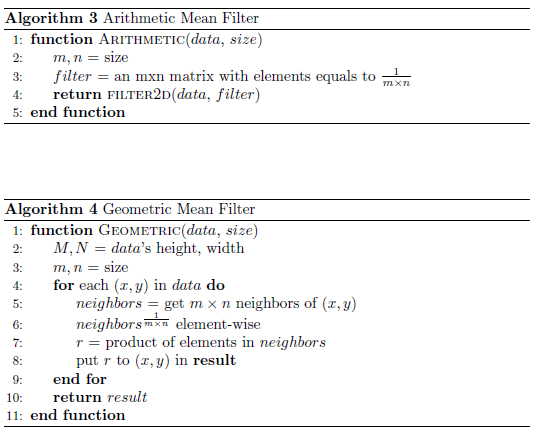
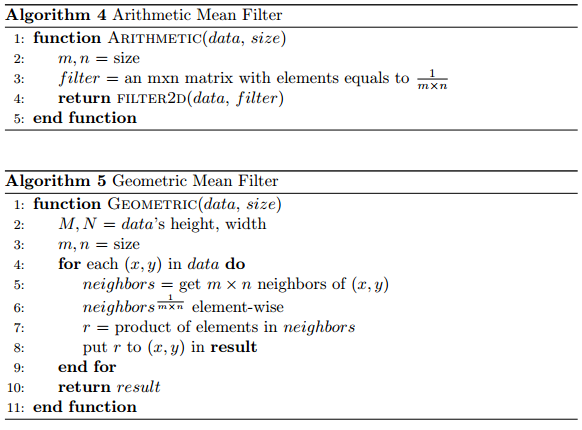
Fix Alpha Channel and rebuild

Changed region(s): [[0.0, 0.393, 1.0, 0.9977], [0.0, 0.0, 1.0, 0.3023]]

diff --git a/hw4/doc/algorithms.tex b/hw4/doc/algorithms.tex
@@ -6,6 +6,31 @@
 \algnewcommand{\LineComment}[1]{\State \(\triangleright\) #1}
 
 \begin{document}
+
+  \begin{algorithm}
+    \caption{Basic Rule in Handling RGBA Image}
+    \label{RGB}
+    \begin{algorithmic}[1]
+      \Function{RGBA}{$Function$, $data$, $args$, $mode$}
+      \LineComment apply $Function$ to $data$ with $args$
+      \If{$mode$ in $'RGBA'$} \Comment RGBA
+      \LineComment $data$ will look like $[R,G,B]$ or $[R,G,B,A]$ 
+      \\ 
+      \State $rgb$ = \Call{$Function$}{$data[:3]$, $args$, $mode$='L'} \Comment $L$ means 1-d
+        \If{\Call{Length}{mode} == 4}
+        \State $alpha$ = $data[3]$
+        \State \Return \Call{Concatenate}{$rgb$, $alpha$}
+        \Else
+        \State \Return $rgb$
+        \EndIf
+      \EndIf
+      \State \Return \Call{$Function$}{$data$, $args$} \Comment not RGBA
+      \EndFunction
+    \end{algorithmic}
+  \end{algorithm}
+
+  \newpage
+
   \begin{algorithm}
     \caption{Gauss Noise Generator}
     \label{GaussGenerator}
@@ -44,6 +69,7 @@
     \end{algorithmic}
   \end{algorithm}
 
+  \newpage
 
   \begin{algorithm}
     \caption{Arithmetic Mean Filter}
@@ -75,27 +101,6 @@
     \end{algorithmic}
   \end{algorithm}
 
-  \begin{algorithm}
-    \caption{Statistic Filter}
-    \label{Statistic}
-    \begin{algorithmic}[1]
-    \Function{Statistic}{$data$, $size$, $percent$}
-    \LineComment $percent$ = 0, min filter
-    \LineComment $percent$ = 50, median filter
-    \LineComment $percent$ = 100, max filter
-    \For{each $(x,y)$ in $data$}
-    \State $neighbors$ = get neighbors of $(x,y)$ within $size$ if exists
-    \State sort $neighbors$
-    \State $index$ = $\frac{percent}{100}\times($\Call{LENGTH}{$neighbors$}$-1)$
-    \State $i\_below, i\_above$ = \Call{Floor}{index}, \Call{Ceil}{index}
-    \State $r$ = $(neighbors[i\_below] + neighbors[i\_above]) / 2$
-    \State put $r$ to $(x,y)$ in $\mathbf{result}$
-    \EndFor
-    \State \Return $result$
-    \EndFunction
-    \end{algorithmic}
-  \end{algorithm}
-
   \newpage
 
   \begin{algorithm}
@@ -120,6 +125,27 @@
     \State $denominator$ = $data^{q}$ element-wise
     \State $filter$ = an mxn matrix with elements equals to $1$
     \State \Return $\frac{\Call{Arithmetic}{numerator}}{\Call{Arithmetic}{denominator}}$ element-wise
+    \EndFunction
+    \end{algorithmic}
+  \end{algorithm}
+
+  \begin{algorithm}
+    \caption{Statistic Filter}
+    \label{Statistic}
+    \begin{algorithmic}[1]
+    \Function{Statistic}{$data$, $size$, $percent$}
+    \LineComment $percent$ = 0, min filter
+    \LineComment $percent$ = 50, median filter
+    \LineComment $percent$ = 100, max filter
+    \For{each $(x,y)$ in $data$}
+    \State $neighbors$ = get neighbors of $(x,y)$ within $size$ if exists
+    \State sort $neighbors$
+    \State $index$ = $\frac{percent}{100}\times($\Call{LENGTH}{$neighbors$}$-1)$
+    \State $i\_below, i\_above$ = \Call{Floor}{index}, \Call{Ceil}{index}
+    \State $r$ = $(neighbors[i\_below] + neighbors[i\_above]) / 2$
+    \State put $r$ to $(x,y)$ in $\mathbf{result}$
+    \EndFor
+    \State \Return $result$
     \EndFunction
     \end{algorithmic}
   \end{algorithm}

diff --git a/hw4/src/filter2d.py b/hw4/src/filter2d.py
@@ -30,7 +30,9 @@ def filter2d(data, filter):
 
 def arithmetic_mean_filter(data, size, mode='L'):
   if mode in 'RGBA':
-    return [arithmetic_mean_filter(channel, size) for channel in data]
+    rgb = [arithmetic_mean_filter(channel, size) for channel in data[:3]]
+    alpha = data[3] if len(mode) == 4 else np.array([])
+    return np.concatenate((rgb, [alpha])) if alpha.size else rgb
 
   m, n = size
   filter = np.full(size, float(1) / (m * n))
@@ -39,7 +41,9 @@ def arithmetic_mean_filter(data, size, mode='L'):
 
 def harmonic_mean_filter(data, size, mode='L'):
   if mode in 'RGBA':
-    return [harmonic_mean_filter(channel, size) for channel in data]
+    rgb = [harmonic_mean_filter(channel, size) for channel in data[:3]]
+    alpha = data[3] if len(mode) == 4 else np.array([])
+    return np.concatenate((rgb, [alpha])) if alpha.size else rgb
 
   reciprocal = np.reciprocal(data)
   result = np.reciprocal(arithmetic_mean_filter(reciprocal, size))
@@ -48,7 +52,9 @@ def harmonic_mean_filter(data, size, mode='L'):
 
 def contra_harmonic_mean_filter(data, size, q, mode='L'):
   if mode in 'RGBA':
-    return [contra_harmonic_mean_filter(channel, size, q) for channel in data]
+    rgb = [contra_harmonic_mean_filter(channel, size, q) for channel in data[:3]]
+    alpha = data[3] if len(mode) == 4 else np.array([])
+    return np.concatenate((rgb, [alpha])) if alpha.size else rgb
 
   numerator = np.power(data, q+1)
   denominator = np.power(data, q)
@@ -59,7 +65,9 @@ def contra_harmonic_mean_filter(data, size, q, mode='L'):
 
 def geometric_mean_filter(data, size, mode='L'):
   if mode in 'RGBA':
-    return [geometric_mean_filter(channel, size) for channel in data]
+    rgb = [geometric_mean_filter(channel, size) for channel in data[:3]]
+    alpha = data[3] if len(mode) == 4 else np.array([])
+    return np.concatenate((rgb, [alpha])) if alpha.size else rgb
 
   M, N = data.shape
   m, n = size
@@ -83,7 +91,9 @@ def statistic_filter(data, size, percent, mode='L'):
     return ValueError('Wrong percent, it should between [0, 100]')
 
   if mode in 'RGBA':
-    return [statistic_filter(channel, size, percent) for channel in data]
+    rgb = [statistic_filter(channel, size, percent) for channel in data[:3]]
+    alpha = data[3] if len(mode) == 4 else np.array([])
+    return np.concatenate((rgb, [alpha])) if alpha.size else rgb
 
   M, N = data.shape
   m, n = size
@@ -100,7 +110,6 @@ def statistic_filter(data, size, percent, mode='L'):
     neighbors.sort()
     index = percent / 100.0 * (len(neighbors) - 1)
     index_below, index_above = int(np.floor(index)), int(np.ceil(index))
-
     return (neighbors[index_below] + neighbors[index_above]) / 2.0
 
   w, h = np.meshgrid(range(M), range(N), indexing='ij')

diff --git a/hw4/src/main.py b/hw4/src/main.py
@@ -69,8 +69,8 @@ def main():
     print 'Task 2:'
     task_2, mode = open_image(filename)
 
-    # 2-2-2
-    gauss = add_gaussian(task_2, 0.0, 40.0)
+    # # 2-2-2
+    gauss = add_gaussian(task_2, 0.0, 40.0, mode=mode)
     save_image(gauss, 'gauss_0_40.png', mode)
 
     gauss_amf = arithmetic_mean_filter(gauss, (3,3), mode)
@@ -83,7 +83,7 @@ def main():
     save_image(gauss_median, 'gauss_median.png', mode)
 
     # 2-2-3
-    salt = add_salt_pepper(task_2, ps=0.2)
+    salt = add_salt_pepper(task_2, ps=0.2, mode=mode)
     save_image(salt, 'salt_0.2.png', mode)
 
     salt_harmonic = harmonic_mean_filter(salt, (3,3), mode)
@@ -95,7 +95,7 @@ def main():
     salt_contra_negative = contra_harmonic_mean_filter(salt, (3,3), -1.5, mode)
     save_image(salt_contra_negative, 'salt_contra_harmonic_-1.5.png', mode)
 
-    salt_pepper = add_salt_pepper(task_2, ps=0.2, pp=0.2)
+    salt_pepper = add_salt_pepper(task_2, ps=0.2, pp=0.2, mode=mode)
     save_image(salt_pepper, 'salt_0.2_pepper_0.2.png', mode)
 
     salt_pepper_arithmetic = arithmetic_mean_filter(salt_pepper, (3,3), mode)
@@ -108,7 +108,7 @@ def main():
     for s in stats:
       r = statistic_filter(salt_pepper, (3,3), s[0], mode)
       save_image(r, 'salt_pepper_%s.png' % s[1], mode)
-  
+
   elif args.t == 3:
     print 'Task 3:'
     task_3, mode = open_image(filename)
@@ -116,7 +116,7 @@ def main():
     equalize_seperate = equalize_hist(task_3, mode=mode)
     save_image(equalize_seperate, 'equalize_seperate.png', mode)
 
-    equalize_together = equalize_hist(task_3, way='together')
+    equalize_together = equalize_hist(task_3, mode=mode, way='together')
     save_image(equalize_together, 'equalize_together.png', mode)
 
 if __name__ == '__main__':

diff --git a/hw4/src/histogram.py b/hw4/src/histogram.py
@@ -6,7 +6,9 @@ from utils import *
 
 def equalize(data, level=256, mode='L'):
   if mode in 'RGBA':
-    return [equalize(channel) for channel in data]
+    rgb = [equalize(channel) for channel in data[:3]]
+    alpha = data[3] if len(mode) == 4 else np.array([])
+    return np.concatenate((rgb, [alpha])) if alpha.size else rgb
 
   size = data.shape[0] * data.shape[1]
   # http://stackoverflow.com/questions/10741346/numpy-most-efficient-frequency-counts-for-unique-values-in-an-array
@@ -20,10 +22,14 @@ def equalize(data, level=256, mode='L'):
 
   return [round(float(i) * (level - 1)) for i in cdf]
 
-def equalize_together(data, level=256):
-  ''' RGB or RGBA
+def equalize_together(data, level=256, mode='RGB'):
   '''
-  vector = np.dstack(data)
+  Only handle 'RGB' or 'RGBA', ignore Alpha channel.
+  '''
+  if not mode in 'RGBA':
+    raise Exception('Wrong data.')
+
+  vector = np.dstack(data[:3])
   size = vector.shape[0] * vector.shape[1] * vector.shape[2]
 
   color, count = np.unique(vector, return_counts=True)
@@ -39,12 +45,15 @@ def equalize_hist(data, level=256, mode='L', way='seperate'):
     raise Exception('Wrong way to caculate histogram')
 
   if way == 'together':
-    lookup = equalize_together(data, level)
-  else:
-    lookup = equalize(data, level, mode)
+    lookup = equalize_together(data, level, mode)
+    return replace(data, lookup)
+
+  lookup = equalize(data, level, mode)
 
   if mode in 'RGBA':
-    return [replace(d, l) for (d, l) in zip(data, lookup)]
+    rgb = [replace(d, l) for (d, l) in zip(data[:3], lookup)]
+    alpha = data[3] if len(mode) == 4 else np.array([])
+    return np.concatenate((rgb, [alpha])) if alpha.size else rgb
 
   return replace(data, lookup)
 

diff --git a/hw4/src/noise.py b/hw4/src/noise.py
@@ -77,20 +77,32 @@ class SaltPepperGenerator(object):
     return self.sp(origin)
           
 
-def add_gaussian(data, mu, sigma):
+def add_gaussian(data, mu, sigma, mode='L'):
   generator = GaussianGenerator(mu, sigma)
 
   def add_noise(p):
     return p + generator.generator()
 
   vfunc = np.vectorize(add_noise)
+
+  if mode in 'RGBA':
+    rgb = vfunc(data[:3])
+    alpha = data[3] if len('RGBA') == 4 else np.array([])
+    return np.concatenate((rgb, [alpha])) if alpha.size else rgb
+
   return vfunc(data)
 
-def add_salt_pepper(data, level=256, ps=0.0, pp=0.0):
+def add_salt_pepper(data, level=256, ps=0.0, pp=0.0, mode='L'):
   generator = SaltPepperGenerator(level, ps, pp)
 
   def add_noise(p):
     return generator.generator(p)
 
   vfunc = np.vectorize(add_noise)
+
+  if mode in 'RGBA':
+    rgb = vfunc(data[:3])
+    alpha = data[3] if len('RGBA') == 4 else np.array([])
+    return np.concatenate((rgb, [alpha])) if alpha.size else rgb
+
   return vfunc(data)

diff --git a/hw4/doc/report.md b/hw4/doc/report.md
@@ -90,7 +90,9 @@ $$ \hat{f}(x,y) = \frac{\sum_{(s,t) \in S_{xy}} g(s,t)^{Q+1}}{\sum_{(s,t) \in S_
 
 #### 2.2.0 Notice
 
-文件中给的图不是灰度图，而是 RGBA 色彩空间的。在编码中对 RGB 或 RGBA 色彩空间的图像，我的处理方式是按分量单独处理，而不是按向量同步处理，这也导致彩色噪声的产生。请注意这一点。
+文件中给的图不是灰度图，而是 RGBA 色彩空间的。在编码中对 RGB 或 RGBA 色彩空间的图像，我的处理方式是按分量单独处理，而不是按向量同步处理，这也导致彩色噪声的产生。处理RGBA时忽略了Alpha通道，请注意这一点。  
+
+![](./rgba.png)
 
 #### 2.2.1 Gauss Noise Generator and Salt and Pepper Noise Generator
 
@@ -119,7 +121,7 @@ $$ \hat{f}(x,y) = \frac{\sum_{(s,t) \in S_{xy}} g(s,t)^{Q+1}}{\sum_{(s,t) \in S_
 </center>
 
 三者皆一定程度上消除了高斯噪声。  
-算术均值滤波与中值滤波结果相似，图像略微模糊，噪声也没完全消除，但能基本还原图像。  
+算术均值滤波与中值滤波结果相似，噪声基本消除，前者的滤波结果更模糊一些，都能基本还原图像。  
 几何均值滤波消除噪声的能力与上面基本一致，但图像模糊程度很低，黑色部分相对原图变粗了，而且图中出现一些很大的点（因为是彩色图像，所以不止有黑色）。因为几何均值滤波是在做乘法，一旦周围有一个像素值为0的点，其滤波结果就是0，产生了黑色。再与其他分量组合，产生了别的颜色。
 
 ![](./mean_filter.png)
@@ -160,7 +162,7 @@ $$ \hat{f}(x,y) = \frac{\sum_{(s,t) \in S_{xy}} g(s,t)^{Q+1}}{\sum_{(s,t) \in S_
 其中，中值滤波近乎去除了所有的噪声，除了零星残留的椒盐噪声，但图像基本复原，效果十分好。因为椒盐噪声属于两个极端，取中值几乎完全忽略了他们的影响。除了少部分邻域内所有都变成椒或者盐的部分，也就是图中零星残留的那些点。  
 而算术均值滤波虽然能去除椒盐噪声，但图像十分模糊，效果也一般。因为算术均值滤波并没有忽略椒盐噪声，而只是一定程度上降低了他们的影响，所以图像模糊，效果不怎么优秀。  
 最大值滤波，最小值滤波与几何均值滤波的结果都很糟糕，破坏了图片。  
-最小值滤波与几何均值滤波的结果几乎一致。对于最小值滤波，一旦邻域内有0，就取了0。而几何均值滤波遇到0，也无视邻域其它点，取了0。所以这导致它们完全保留了椒噪声，图片黑化。  
+最小值滤波与几何均值滤波的结果几乎一致，最小值更黑一些。对于最小值滤波，一旦邻域内有0，就取了0。而几何均值滤波遇到0，也无视邻域其它点，取了0。所以这导致它们完全保留了椒噪声，图片黑化。  
 最大值滤波则完全保留了盐噪声，图片白化。  
 
 ![](./statistic_filter.png)
